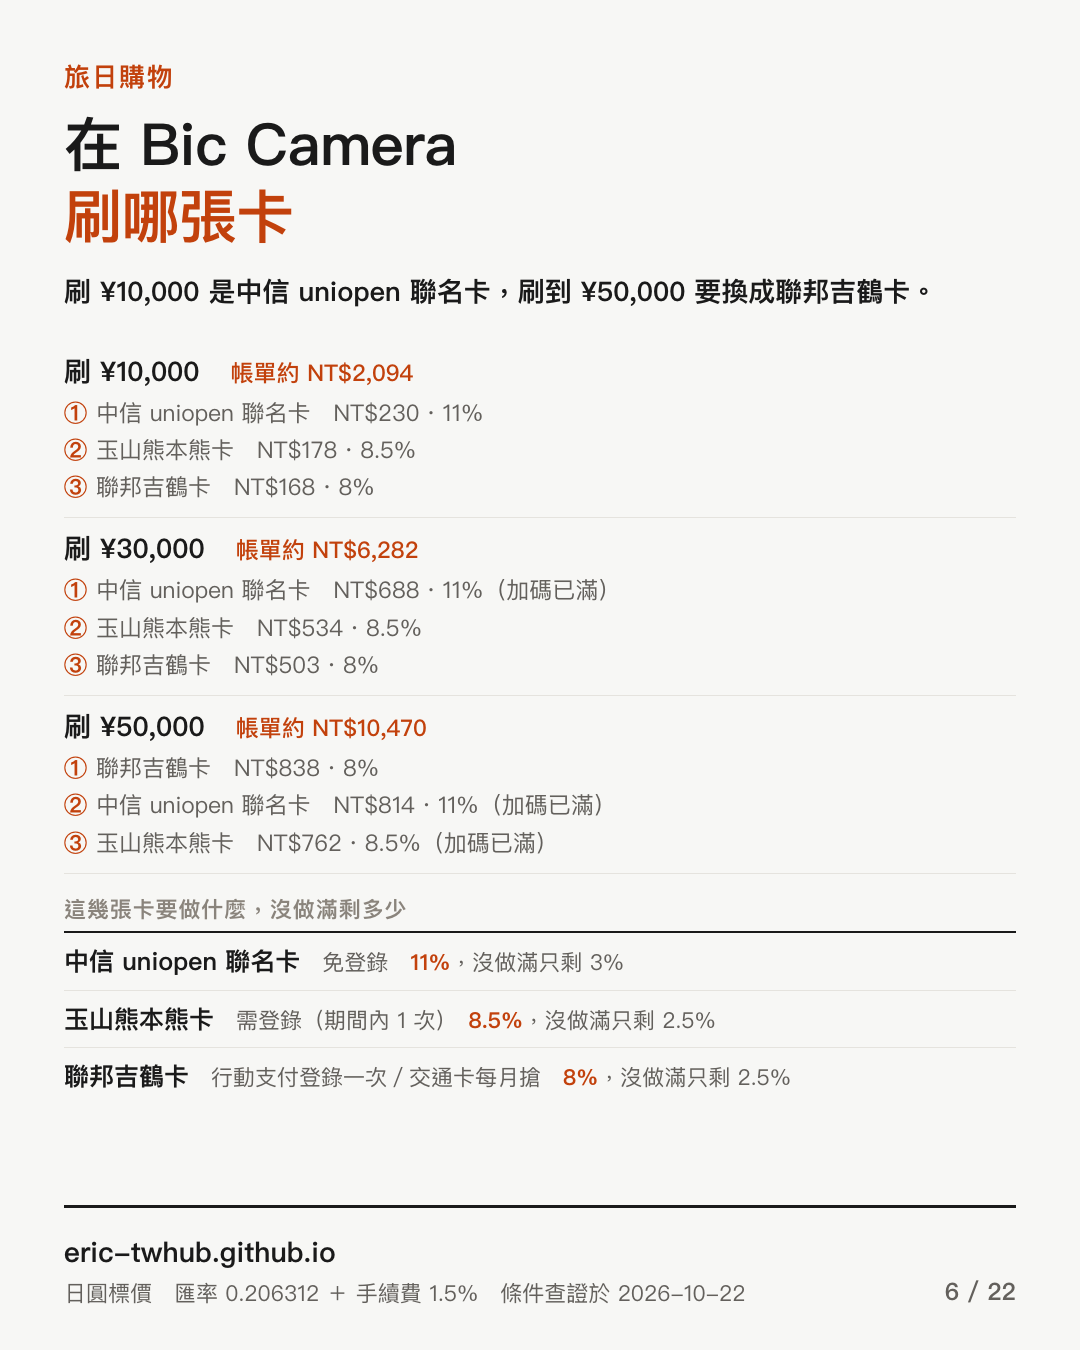
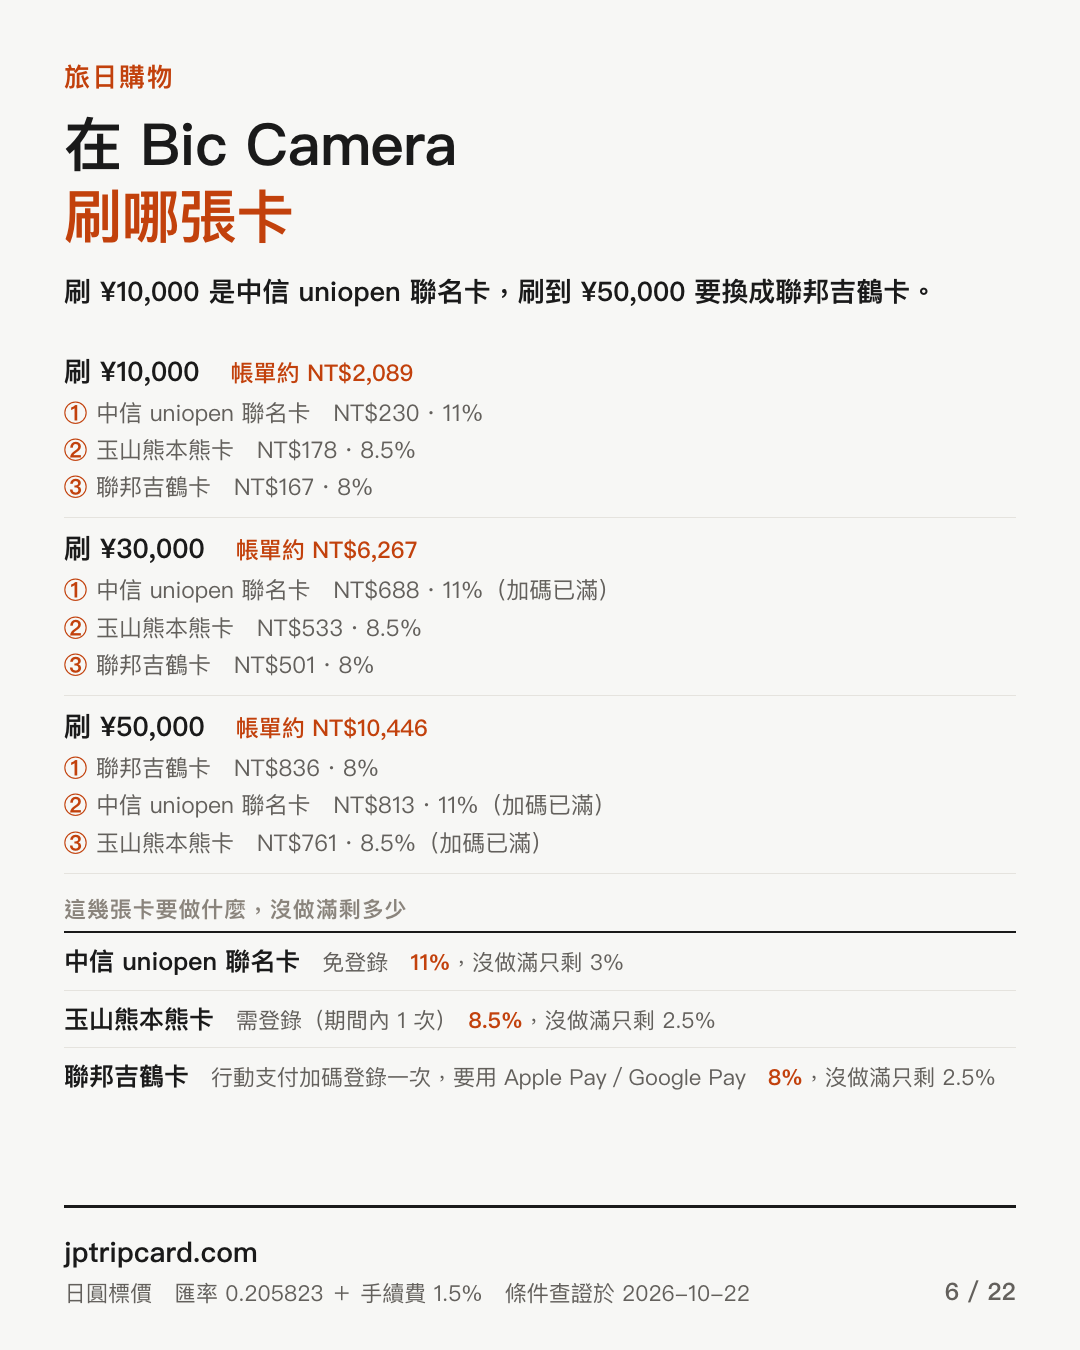
各店刷哪張卡圖卡重出：新網址浮水印、現在匯率；店家消費的登錄條件只寫跟店家有關的檔
台北富邦 J 卡原本寫「交通卡 18 日／亞洲精選 19 日／日韓泰 20 日」，
19 日那檔不含日本、18 日那檔是交通卡，放在店家消費的條件裡會誤導。
新增 reg_short_shop（店家頁與圖卡用）與 reg_short_transit；
聯邦吉鶴卡同樣拿掉交通卡那半句。富邦的通用 reg_short 也拿掉 19 日。

diff --git a/gen.py b/gen.py
@@ -23585,7 +23585,7 @@ if os.path.exists('cards.json'):
             """這家店可用的卡，去掉新戶限定與不適用這家店的加碼之後的費率"""
             return [{'n': c['name'], 's': c['slug'], 'base': c['base'],
                      'tiers': _shop_tiers(c, st),
-                     'reg': c.get('reg_short', '')}
+                     'reg': c.get('reg_short_shop') or c.get('reg_short', '')}
                     for c in CD['cards']]
 
         # ── 刷多少，哪張卡拿最多 ──────────────────────────
@@ -23679,7 +23679,7 @@ if os.path.exists('cards.json'):
                 li += (f'<li><b>{html.escape(c["name"])}</b>　'
                        f'做滿條件 {r["rate"]:g}%，只剩基本回饋 {c["base"]:g}%。'
                        f'<br><small style="color:var(--dim)">要做的事：'
-                       f'{html.escape(c.get("reg_short") or "官方沒寫")}'
+                       f'{html.escape(c.get("reg_short_shop") or c.get("reg_short") or "官方沒寫")}'
                        f'　·　活動期間 {html.escape(c["period"])}'
                        f'　·　<a href="{U("/japan-credit-card/" + c["slug"] + "/")}">'
                        f'逐層條件</a></small></li>')

diff --git a/make_shoprank_cards.py b/make_shoprank_cards.py
@@ -158,7 +158,7 @@ def store_card(CD, st, mid, fee, catmap, i, n, rate_note):
     cond = ''
     for r in sorted(picked.values(), key=lambda x: -x['rate']):
         c = r['c']
-        cond += (f'<div><b>{E(c["name"])}</b>　{E(c.get("reg_short") or "官方沒寫")}'
+        cond += (f'<div><b>{E(c["name"])}</b>　{E(c.get("reg_short_shop") or c.get("reg_short") or "官方沒寫")}'
                  f'　<em>{r["rate"]:g}%</em>，沒做滿只剩 {c["base"]:g}%</div>')
 
     inner = ('<div class="kick">旅日購物</div>'
@@ -183,7 +183,7 @@ def build(CD, CP, mid, fee, catmap, rate_note):
 def fingerprint(CD):
     """gen.py 的過期檢查只會餵 cards.json，店家清單自己讀。"""
     CP = json.load(open('coupons.json', encoding='utf-8'))
-    pay = [[c.get(k) for k in ('name', 'slug', 'base', 'reg_short')]
+    pay = [[c.get(k) for k in ('name', 'slug', 'base', 'reg_short', 'reg_short_shop')]
            + [[t['label'], t['rate'], t['cap'], t['scope'], t.get('sold_out'),
                t.get('store_scope'), t.get('cat_scope'), t.get('no_base')]
               for t in c['tiers']]
